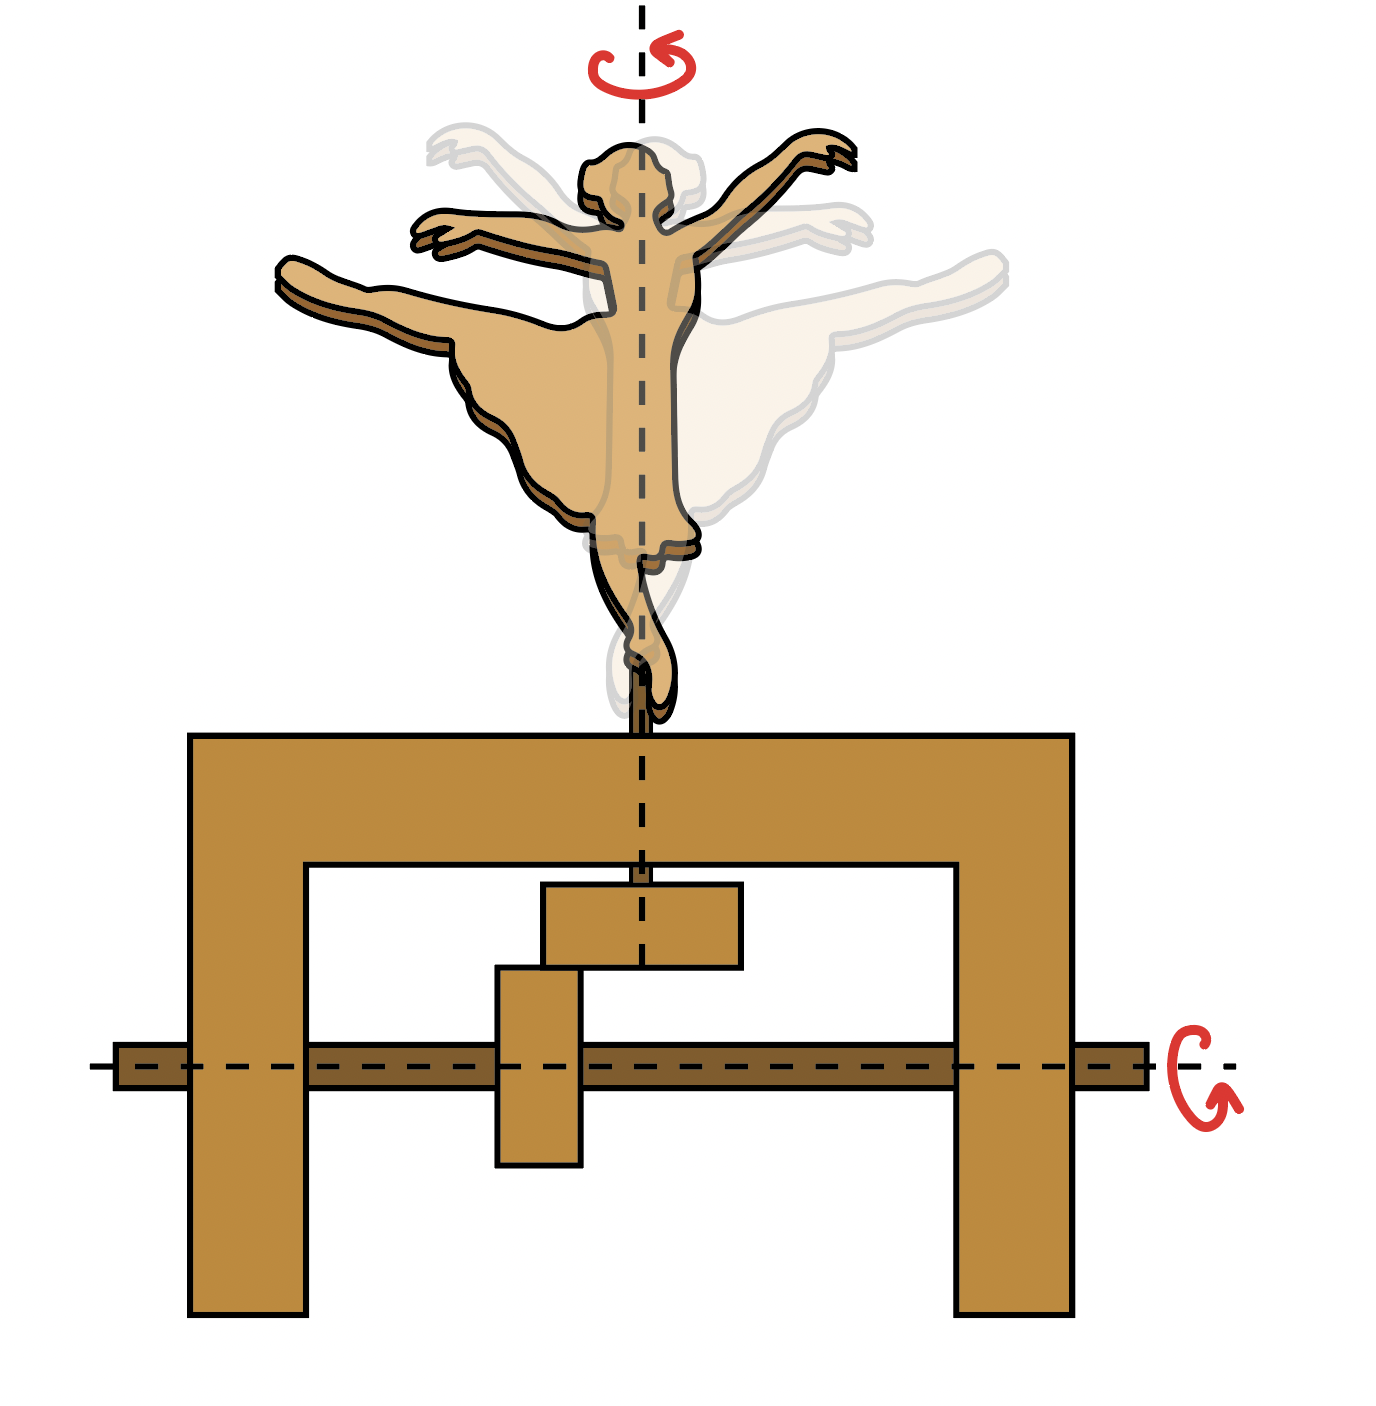
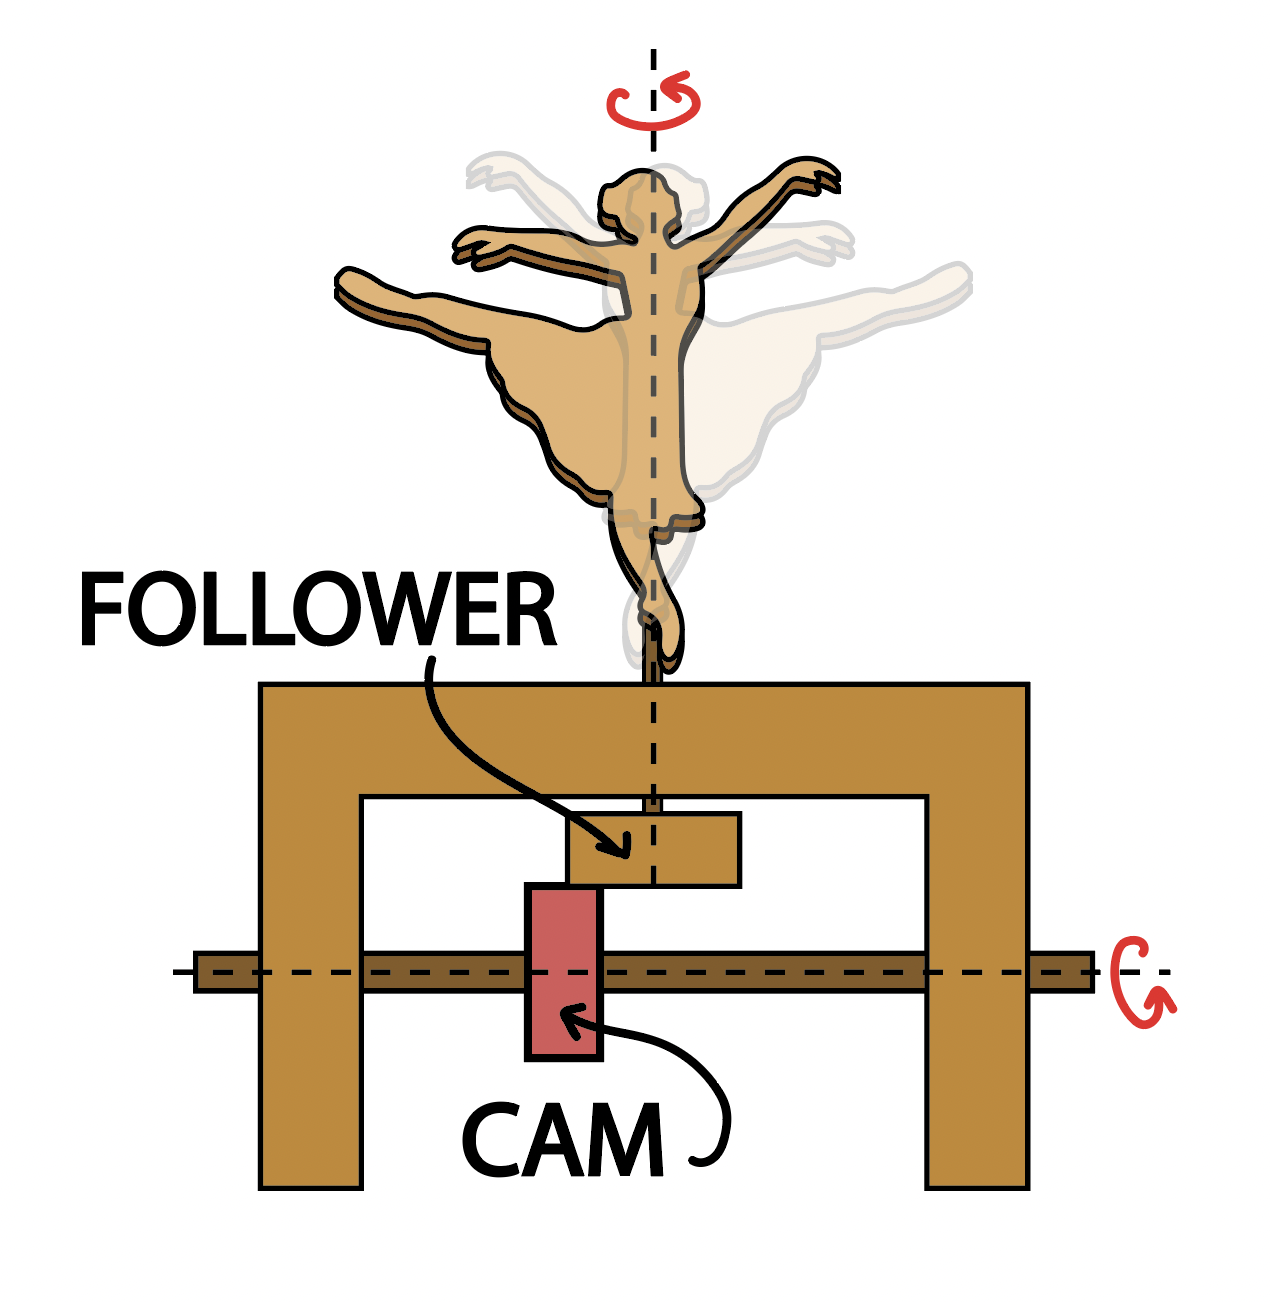
add more pictures lab4 cams

Changed region(s): [[0.0614, 0.0, 0.9213, 0.9524], [0.5528, 0.8295, 0.5835, 0.8909]]

diff --git a/labs/beginner/lab4.html b/labs/beginner/lab4.html
@@ -162,7 +162,7 @@
       <th scope="col">Input Motion</th>
       <th scope="col">Output Motion</th>
       <th scope="col">Example Applications in Automata</th>
-     <th scope="col"> Example of Built Automata</th>
+     <th scope="col"> Video Examples of Built Automata</th>
 
 
     </tr>
@@ -196,8 +196,8 @@
 
      <td> Off CAM's center</td>
       <td>Rotational</td>
-      <td>Motion is purely linear if the cam contacts the follower's center; off-center contact adds rotational motion. </td>
-      <td><img src=media/placeholder.png class="rounded mx-auto d-block img-fluid"> 
+      <td>Motion is reciprocal linear (go up down etc) if the cam contacts the follower's center; off-center contact adds rotational motion. </td>
+      <td><img src=media/ramen-up-down.png class="rounded mx-auto d-block img-fluid"> Reveal and Hide
           </td>
         <td> <a href="https://youtu.be/_OJj5LTnLLk?si=TXslUh7gBEy67BTV"> CAM+ string (no follower-- gives pull and release motion) </a></td>
 
